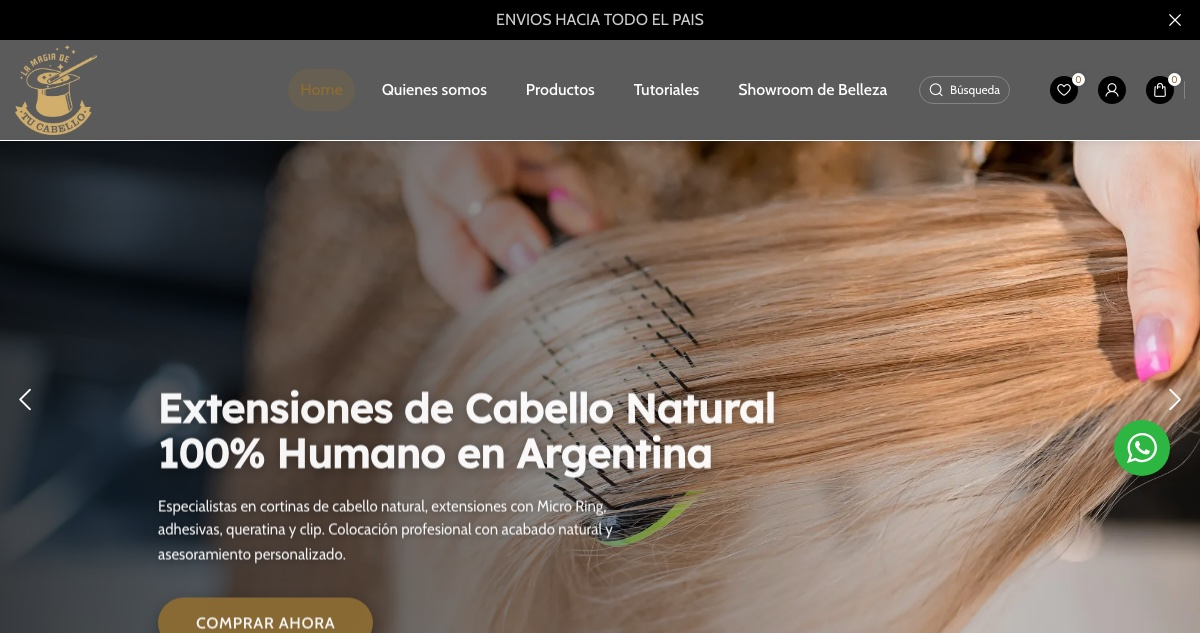
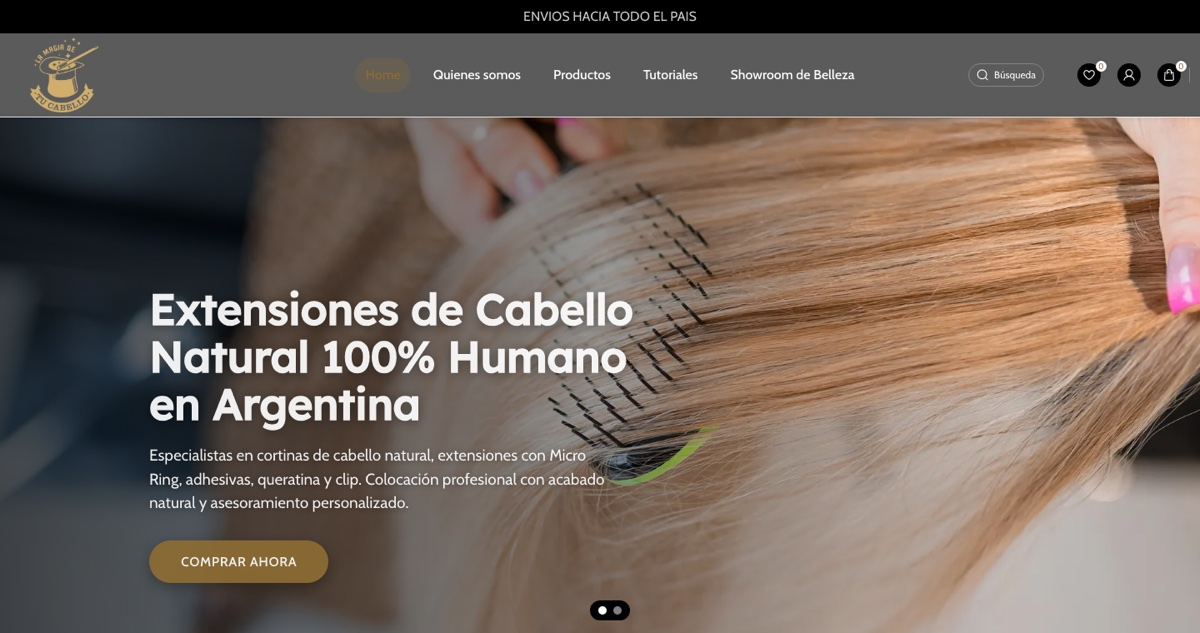
Retake desktop screenshot with full slider content

diff --git a/caso-la-magia-de-tu-cabello.html b/caso-la-magia-de-tu-cabello.html
@@ -632,7 +632,7 @@
   <span class="sc-caso-mk-url"></span>
   </div>
   <div class="sc-caso-mk-pantalla es-captura">
-  <img src="assets/images/casos/magia-de-tu-cabello-escritorio.jpg?v=3" width="1200" height="633" alt="" decoding="async">
+  <img src="assets/images/casos/magia-de-tu-cabello-escritorio.jpg?v=4" width="1200" height="633" alt="" decoding="async">
   </div>
   </div>
   <span class="sc-caso-mk-base" aria-hidden="true"></span>
